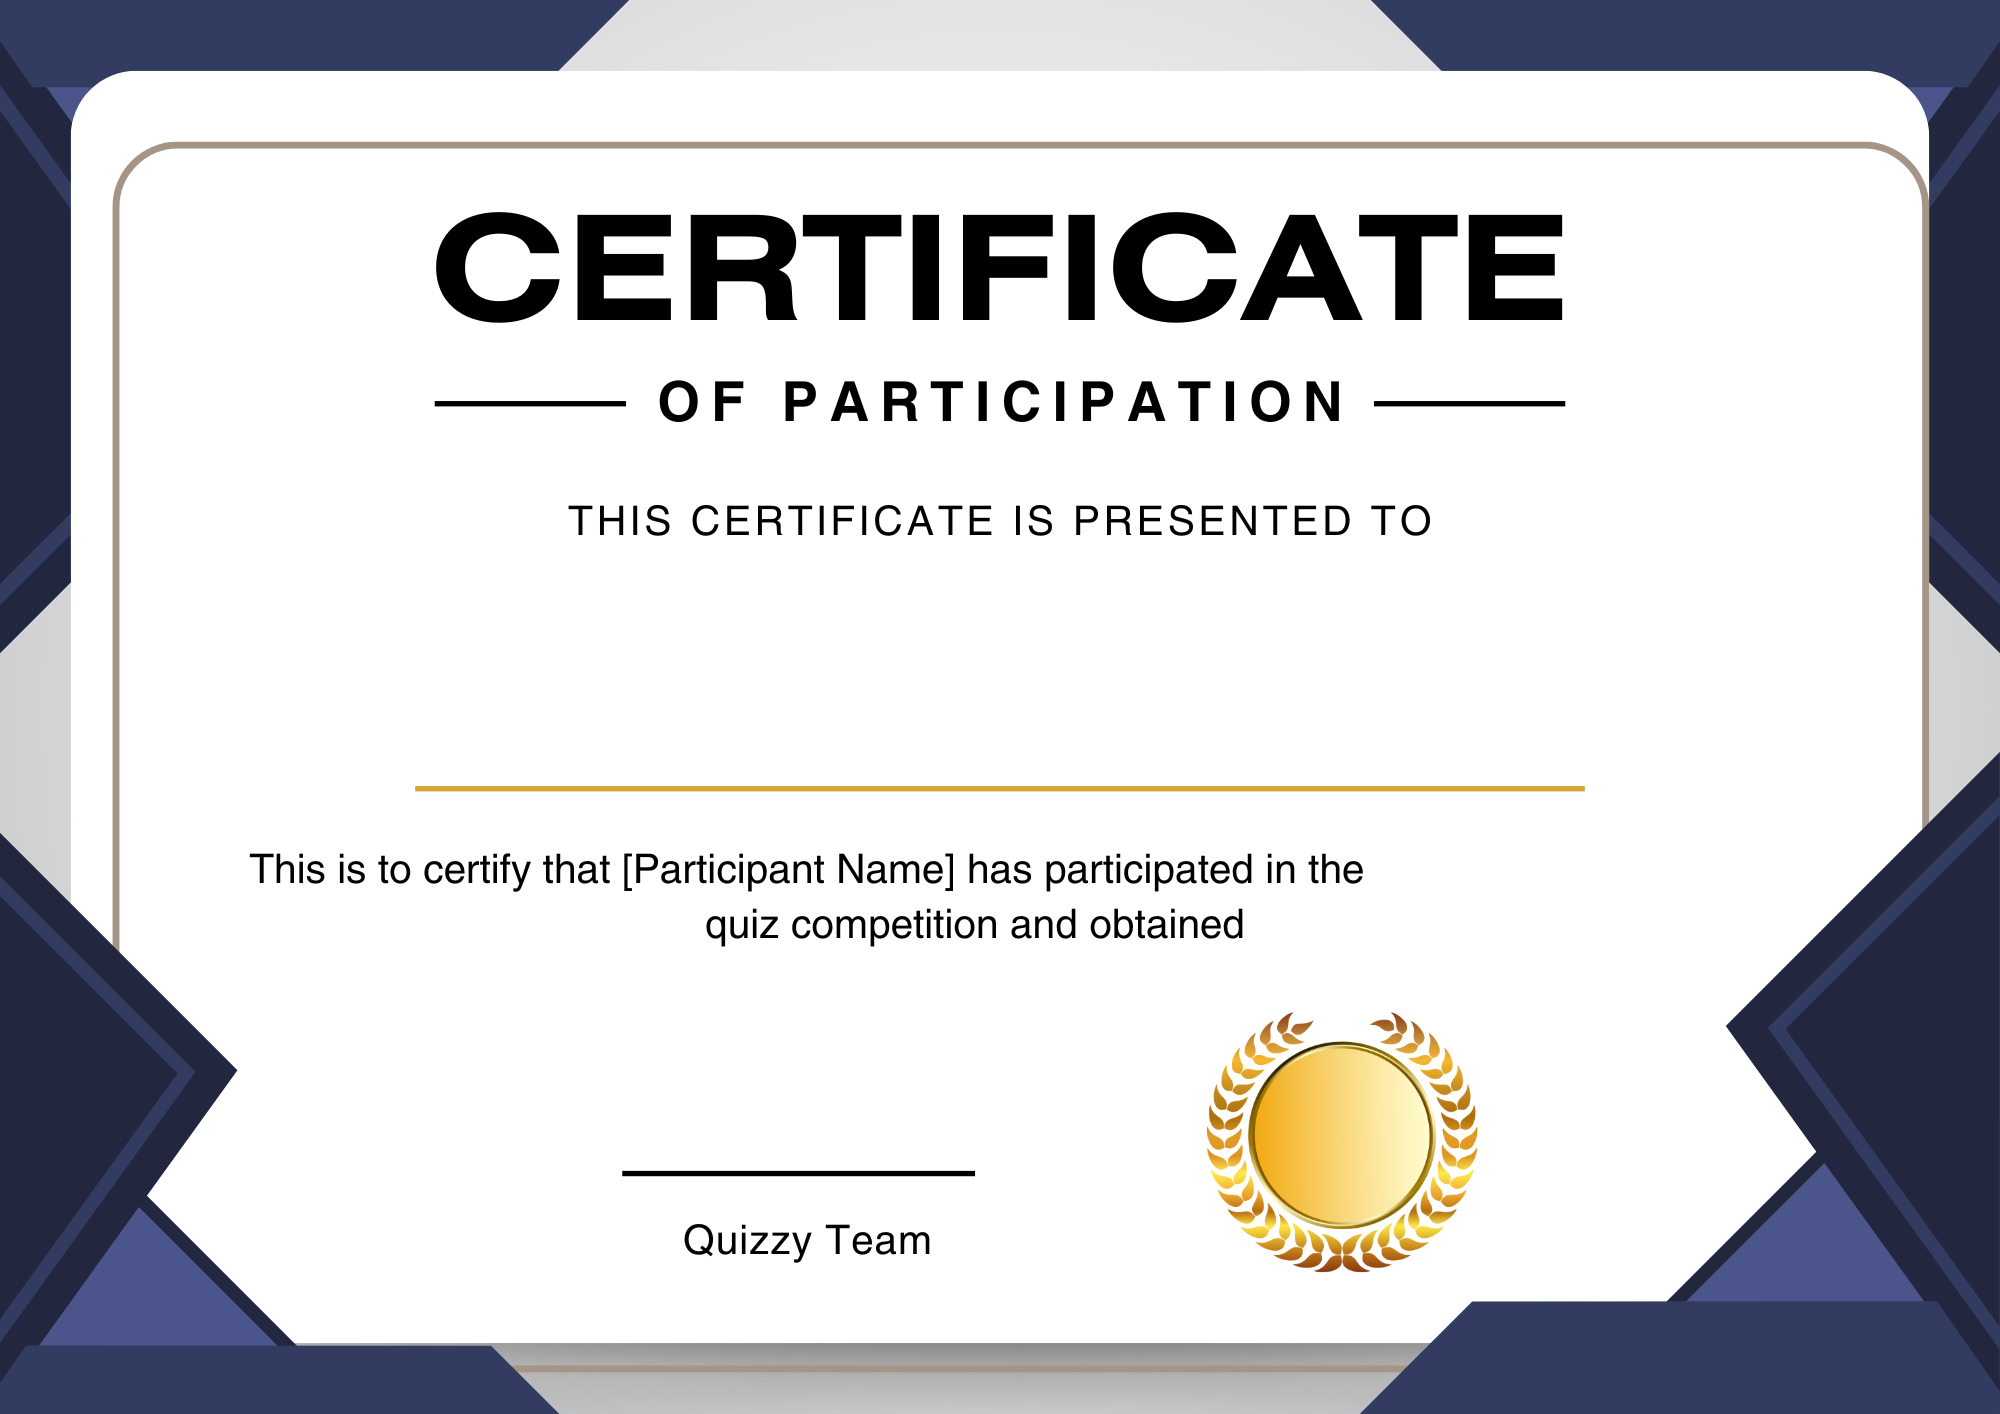
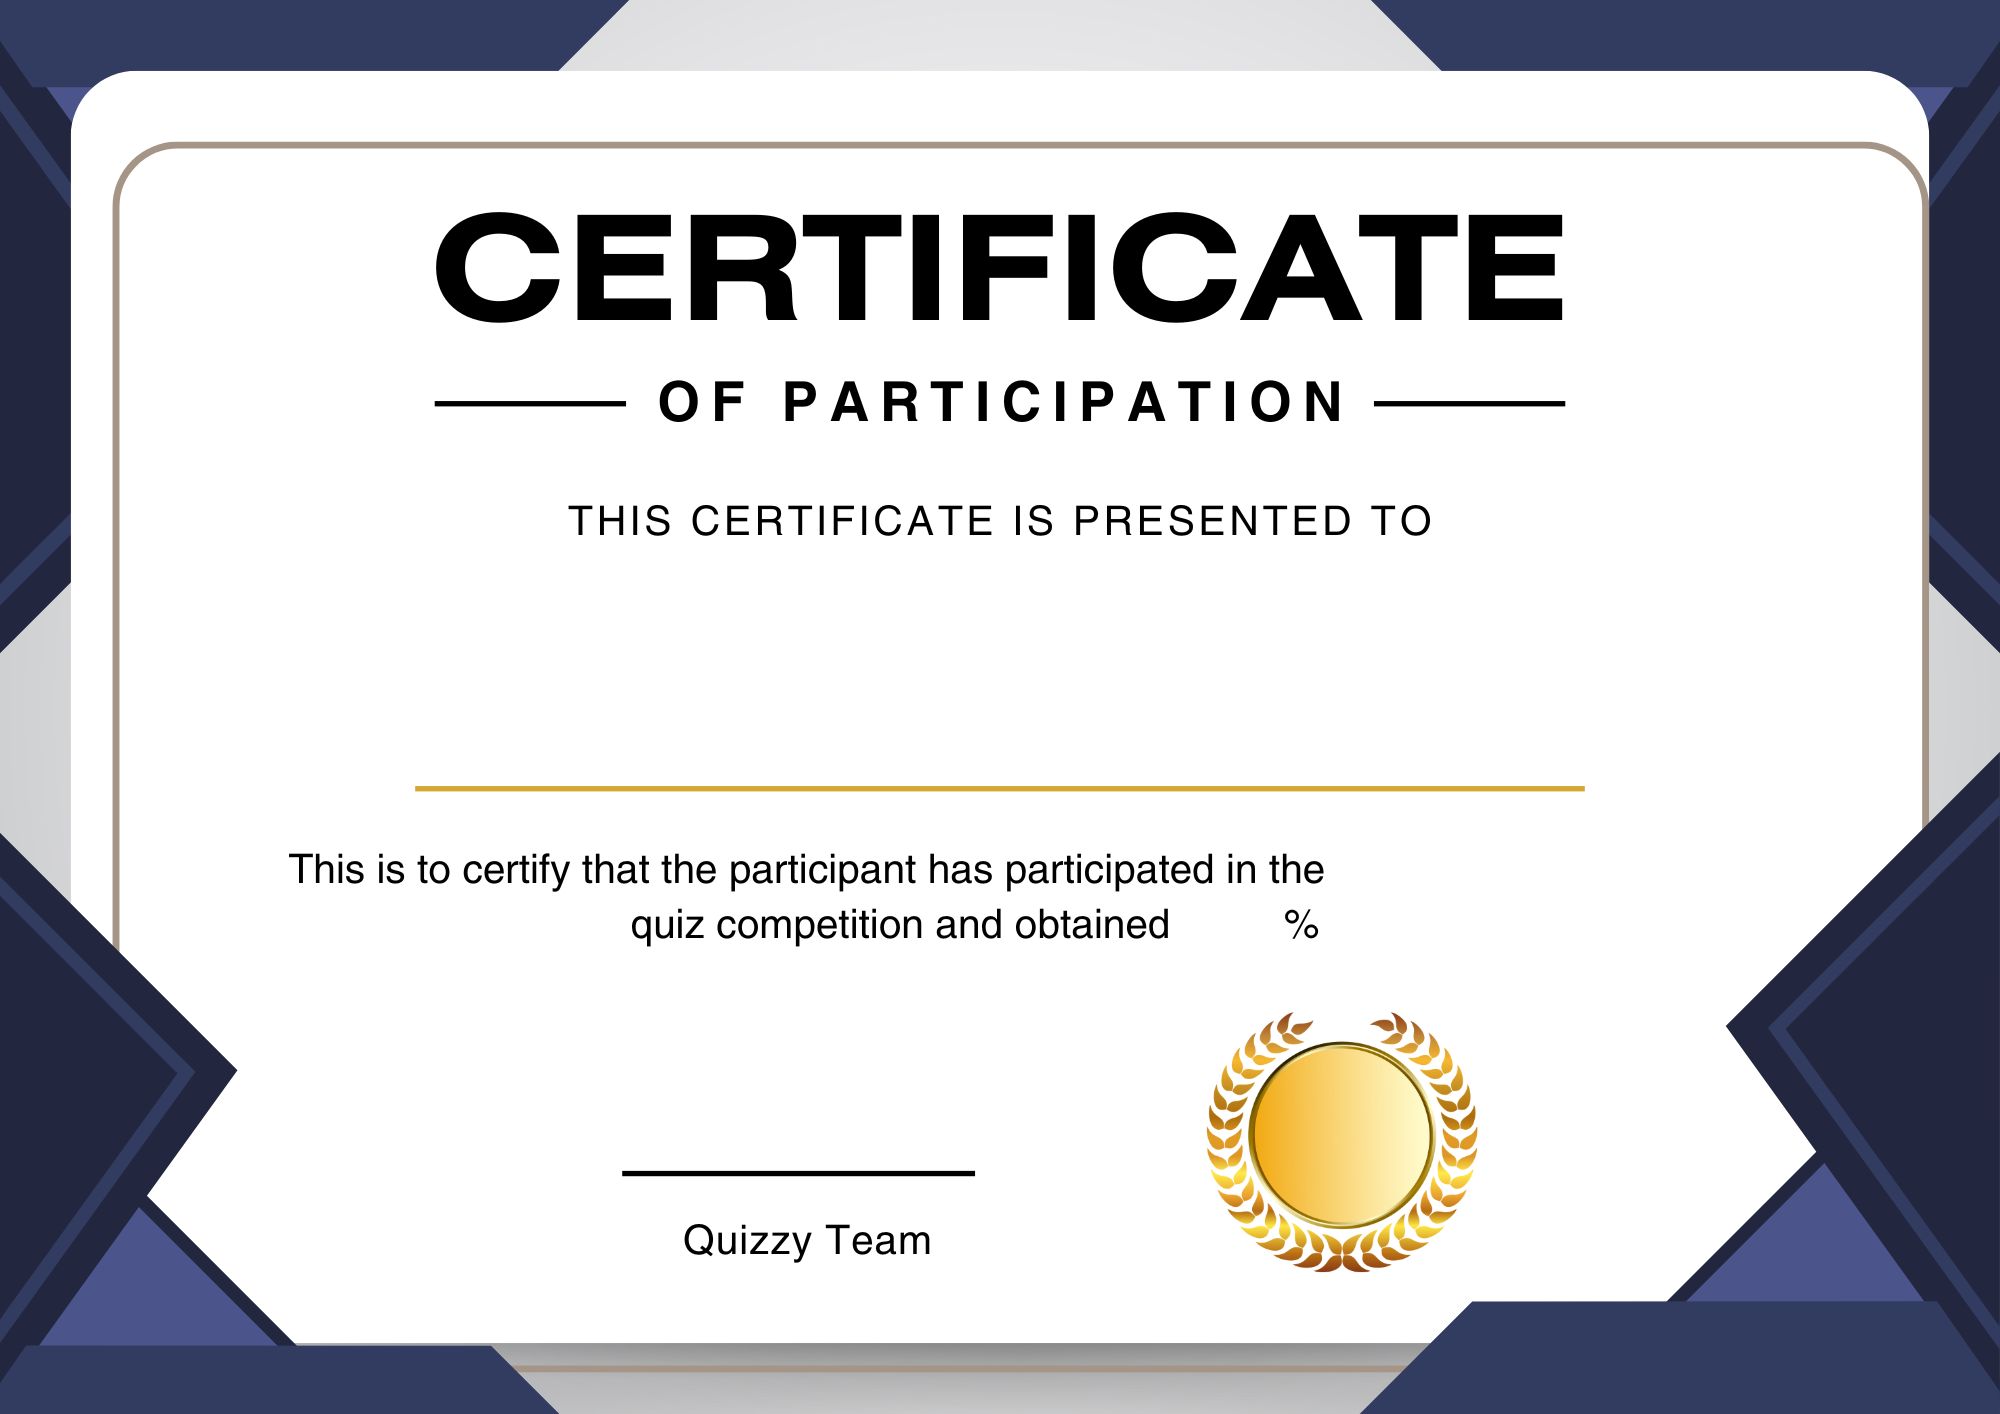
sample

Changed region(s): [[0.124, 0.5912, 0.682, 0.6846]]

diff --git a/script.js b/script.js
@@ -835,30 +835,43 @@ function sendData(button) {
 
 
 
-// function addTextToImage() {
-//         const textInput = categories[buttonValue];
-//         const img = new Image();
-//         img.onload = function() {
-//             const canvas = document.createElement('canvas');
-//             canvas.width = img.width;
-//             canvas.height = img.height;
-//             const ctx = canvas.getContext('2d');
-//             ctx.drawImage(img, 0, 0);
-//             ctx.font = '45px Arial';
-//             ctx.fillStyle = 'black';
-//             ctx.fillText(textInput, 2150, 450);
-//             document.getElementById('output').src = canvas.toDataURL();
-//             canvas.toBlob(function(blob) {
-//                 const url = URL.createObjectURL(blob);
-//                 const a = document.createElement('a');
-//                 a.href = url;
-//                 a.download = 'certificate.png';
-//                 document.body.appendChild(a);
-//                 a.click();
-//                 document.body.removeChild(a);
-//                 URL.revokeObjectURL(url);
-//             });
-//         };
-//         img.src = 'certificate.png';
-//
-// }
+function addTextToImage() {
+        const canvas = document.getElementById('canvas');
+    const ctx = canvas.getContext('2d');
+    const mark = userScore;
+    const name = username;
+    const domain = categories[buttonValue];
+
+    const image = new Image();
+        image.onload = function() {
+            canvas.width = image.width;
+            canvas.height = image.height;
+            ctx.drawImage(image, 0, 0);
+
+            ctx.font = 'bold 40px Arial';
+
+            ctx.fillStyle = 'black';
+            ctx.fillText(domain, 1360, 882);
+            ctx.fillText(mark, 1220, 940);
+
+            ctx.font = 'bold 60px Arial';
+            const textWidth = ctx.measureText(name).width;
+            const x = (canvas.width - textWidth) / 2;
+            ctx.fillText(name, x, 750);
+
+
+            document.getElementById('output').src = canvas.toDataURL();
+            canvas.toBlob(function(blob) {
+                const url = URL.createObjectURL(blob);
+                const a = document.createElement('a');
+                a.href = url;
+                a.download = 'certificate.png';
+                document.body.appendChild(a);
+                a.click();
+                document.body.removeChild(a);
+                URL.revokeObjectURL(url);
+            });
+        };
+        image.src = 'certificate.png';
+
+}

diff --git a/sample.html b/sample.html
@@ -1,0 +1,47 @@
+<!DOCTYPE html>
+<html>
+<head>
+    <title>Image Editor</title>
+</head>
+<body>
+<h1>Image Editor</h1>
+<button onclick="editImage()">Edit Image</button>
+<br>
+<canvas id="canvas" style="display:none;"></canvas>
+<a id="downloadLink"  download="edited_image.png">Download Image</a>
+
+<script>
+    function editImage() {
+        const canvas = document.getElementById('canvas');
+        const ctx = canvas.getContext('2d');
+
+        const name = "Vishwa Raviraaj S I"
+        const domain = "Artificial Intelligence"
+        const mark = "30"
+
+        const image = new Image();
+        image.onload = function() {
+            canvas.width = image.width;
+            canvas.height = image.height;
+            ctx.drawImage(image, 0, 0);
+
+            ctx.font = 'bold 40px Arial';
+
+            ctx.fillStyle = 'black';
+            ctx.fillText(domain, 1360, 882);
+            ctx.fillText(mark, 1220, 940);
+
+            ctx.font = 'bold 60px Arial';
+            const textWidth = ctx.measureText(name).width;
+            const x = (canvas.width - textWidth) / 2;
+            ctx.fillText(name, x, 750);
+
+            const downloadLink = document.getElementById('downloadLink');
+            downloadLink.href = canvas.toDataURL();
+            downloadLink.style.display = 'block';
+        };
+        image.src = 'certificate.png';
+    }
+</script>
+</body>
+</html>

diff --git a/index.html b/index.html
@@ -111,6 +111,8 @@
         <button class="downloadcertificate" onclick="addTextToImage()">Get Certificate</button>
     </div>
     <img id="output" aria-disabled="true"/>
+    <canvas id="canvas" style="display:none;"></canvas>
+
 </div>
 <script src="script.js"></script>
 </body>
